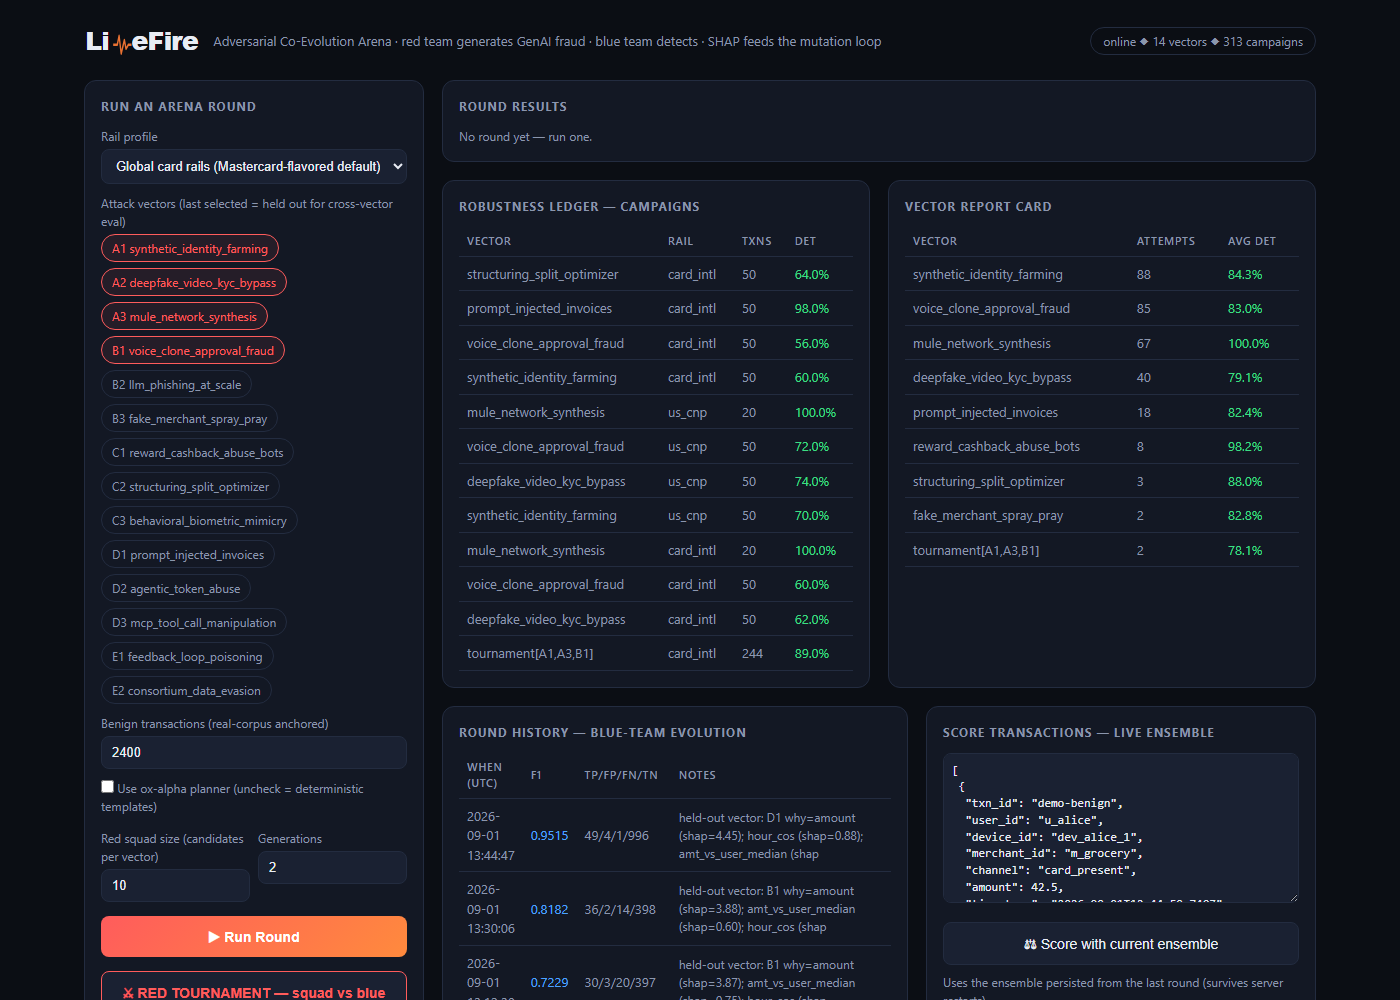
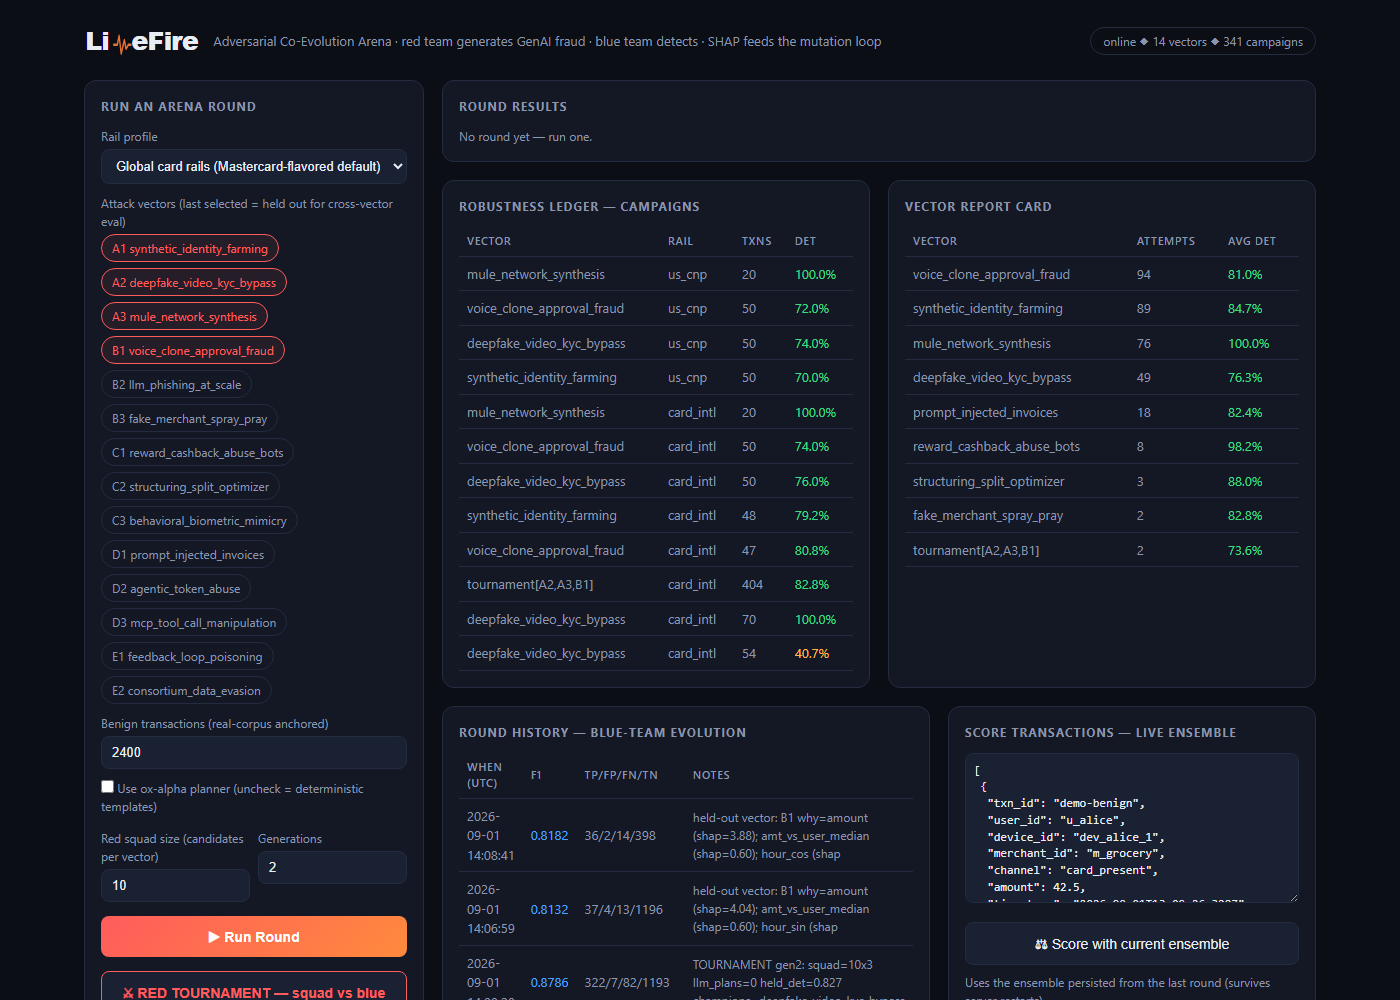
docs: convert README prose to bullets, split quickstart per-step
Every table cell and paragraph that was a dense multi-clause sentence
is now a short bullet list -- the Why-LiveFire table's right column,
all four Architecture role paragraphs (Red/Weaver/Blue/Memory),
Honest Numbers, and the Mastercard-fit section. Content is unchanged,
only broken into scannable points instead of prose blocks.

Quick Start is now six separately-labeled steps, each its own fenced
snippet, instead of one monolithic block -- easier to run/copy one
step at a time and see what each one actually produces.

Screenshots refreshed to reflect this session's terminal fixes (real
function-key buttons, vector selection, the new DETECT panel) rather
than the pre-fix UI.

diff --git a/README.md b/README.md
@@ -25,16 +25,23 @@ Mastercard Innovation Challenge 2026 — AI Defense Lab for Payment Security · 
 
 ## Why LiveFire exists
 
-Static fraud models lose to adaptive attackers. LiveFire closes the loop: an **LLM red team proposes statistical generator parameters** → a **deterministic weaver compiles them into rail-realistic transactions** → a **heterogeneous blue ensemble detects + disagrees → novelty-flags** → **SHAP explains what got caught** → that intelligence **mutates the next attack generation**. Same vectors replayed across four global rail profiles for a per-rail survival comparison — the one axis none of the reference architectures we benchmarked against attempt.
+Static fraud models lose to adaptive attackers. LiveFire closes the loop:
+
+- An **LLM red team** proposes statistical generator parameters
+- A **deterministic weaver** compiles them into rail-realistic transactions
+- A **heterogeneous blue ensemble** detects, disagrees, and novelty-flags
+- **SHAP** explains what got caught
+- That intelligence **mutates the next attack generation**
+- The same vectors replay across **four global rail profiles** for a per-rail survival comparison — the one axis none of the reference architectures we benchmarked against attempt
 
 | Usual failure | What LiveFire does instead |
 |---|---|
-| Metrics trained and tested on its own simulator | **Two numbers, never mixed.** Real credibility = XGB on real ULB holdout (ROC-AUC 0.9852 / AP 0.8750). Arena = synthetic-attack detection vs real-anchored benign. |
-| Single model, single threshold, inflated detection rate | **Heterogeneous blue**: XGB (explainable) + LR + deterministic rules + IF (benign-only). Threshold calibrated on a **held-out benign slice** at a 0.5% FP target. |
-| "98% detection" at an unstated false-positive rate | **Honest operating point.** Every run reports its own *measured* detection + *realized* FP next to the 0.5% target. Ranges across seeds, not cherry-picked points. |
-| LLM writes fraudulent transactions directly | **LLM buys the plan, the Weaver builds the transactions.** The LLM only outputs statistical parameters; a seeded CPU compiler expands them through a 6-check constraint engine per rail. |
-| One geography, one rail | **Four rail profiles** — `card_intl` / `eu_psd2` / `us_cnp` / `upi_in` — same vectors, per-rail survival in one ledger. |
-| A "prompt-injection detector" that's a keyword match | **Category D is a structural check.** `beneficiary_mismatch` compares the payment mandate's stated payee against where settlement actually lands — the same account-reference-binding principle real agentic-payment protocols use. |
+| Metrics trained and tested on its own simulator | <ul><li>**Two numbers, never mixed**</li><li>Real credibility = XGB on real ULB holdout (ROC-AUC 0.9852 / AP 0.8750)</li><li>Arena = synthetic-attack detection vs real-anchored benign</li></ul> |
+| Single model, single threshold, inflated detection rate | <ul><li>**Heterogeneous blue**: XGB (explainable) + LR + deterministic rules + IF (benign-only)</li><li>Threshold calibrated on a **held-out benign slice** at a 0.5% FP target</li></ul> |
+| "98% detection" at an unstated false-positive rate | <ul><li>**Honest operating point** — every run reports its own</li><li>*measured* detection + *realized* FP next to the 0.5% target</li><li>Ranges across seeds, not cherry-picked points</li></ul> |
+| LLM writes fraudulent transactions directly | <ul><li>**LLM buys the plan**, the Weaver builds the transactions</li><li>LLM only outputs statistical parameters</li><li>A seeded CPU compiler expands them through a 6-check constraint engine per rail</li></ul> |
+| One geography, one rail | <ul><li>**Four rail profiles** — `card_intl` / `eu_psd2` / `us_cnp` / `upi_in`</li><li>Same vectors, per-rail survival in one ledger</li></ul> |
+| A "prompt-injection detector" that's a keyword match | <ul><li>**Category D is a structural check**</li><li>`beneficiary_mismatch` compares the mandate's stated payee against where settlement actually lands</li><li>Same account-reference-binding principle real agentic-payment protocols use</li></ul> |
 
 ## Screenshots
 
@@ -49,25 +56,51 @@ Both surfaces talk to the same live API and the same running ensemble — the te
 
 ## Quick Start
 
+**1. Create the environment and install dependencies**
 ```bash
 python -m venv .venv && .venv\Scripts\activate
 pip install -r requirements.txt
-copy config\settings.example.env .env   # fill LLM_API_KEY for live red-team generation; product runs without it
-
-# 1 — real-data anchor (separate from arena, no synthetic)
-python defense\train_real_backbone.py        # → defense/models/artifacts/ulb_backbone.joblib
-
-# 2 — full test suite, zero LLM, deterministic
-python tests\test_e2e.py                    # 6/6
-
-# 3 — the API + dashboard
-uvicorn app.api:app --port 8000             # http://localhost:8000  (or: docker compose up --build)
-
-# 4 — the terminal UI (optional second surface; talks to the same API on :8000)
-cd app\frontend && npm install && npm run dev   # http://localhost:3000
 ```
 
-`POST /api/round` runs one closed loop. `POST /api/tournament` runs population red-teaming. `POST /api/detect` scores your own transactions. `GET /api/ledger/export` downloads the ledger.
+**2. Configure the LLM (optional — the product runs without it, templates fill in)**
+```bash
+copy config\settings.example.env .env
+```
+
+**3. Anchor to real data** — separate from the arena, no synthetic data involved
+```bash
+python defense\train_real_backbone.py
+```
+→ writes `defense/models/artifacts/ulb_backbone.joblib`
+
+**4. Run the test suite** — zero LLM calls, fully deterministic
+```bash
+python tests\test_e2e.py
+```
+→ 6/6 passing
+
+**5. Start the API + dashboard**
+```bash
+uvicorn app.api:app --port 8000
+```
+→ http://localhost:8000 (or: `docker compose up --build`)
+
+**6. Start the terminal UI** — optional second surface, talks to the same API on `:8000`
+```bash
+cd app\frontend
+npm install
+npm run dev
+```
+→ http://localhost:3000
+
+**Key endpoints once the API is running:**
+
+| Endpoint | What it does |
+|---|---|
+| `POST /api/round` | Runs one closed loop (red → weave → blue → explain → ledger) |
+| `POST /api/tournament` | Runs population red-teaming (squad vs. blue, multi-generation) |
+| `POST /api/detect` | Scores your own transactions with the live ensemble |
+| `GET /api/ledger/export` | Downloads the full Robustness Ledger as CSV |
 
 ## Architecture
 
@@ -82,22 +115,41 @@ MUTATE    memory + SHAP context fed into next red prompt → co-evolution
 LEDGER    every campaign + round persisted; multi-rail replay; CSV export
 ```
 
-**Red:** an ox-alpha-lineage model via `attacks/redagent/core/llm_client.py` — tiered routing, failover chains on both `429` (rate limit) and `404` (a retired/renamed model slug — OpenRouter's free/preview tier churns these; the whole point of a chain is to survive exactly that), fence-strip, shared `AsyncClient` scoped correctly per event loop.
+**Red** — an ox-alpha-lineage model via `attacks/redagent/core/llm_client.py`:
+- Tiered routing across a model chain
+- Failover on both `429` (rate limit) and `404` (a retired/renamed model slug — OpenRouter's free/preview tier churns these; the whole point of a chain is to survive exactly that)
+- Fence-strip on raw model output
+- Shared `AsyncClient` scoped correctly per event loop
 
-**Weaver:** `weave_attack_plan()` validates → entity pools → amount ladder + jitter → inter-arrivals → tz-aware timestamps → per-txn constraint engine (C1-C6) × rail profile. Seeded → reproducible.
+**Weaver** — `weave_attack_plan()`:
+- Validates the plan → entity pools → amount ladder + jitter → inter-arrivals → tz-aware timestamps
+- Per-txn constraint engine (C1-C6) × rail profile
+- Seeded end to end → fully reproducible
 
-**Blue:** `defense/features/arena_features.py` → 17 dims: behavioral, velocity (causal 1h), graph (causal fan-out), `memo_injection_score` (text-pattern tier) + `beneficiary_mismatch` (structural tier, Category D). `defense/models/backbone.py` fusion `0.50/0.20/0.20/0.10`; disagreement → `novelty_flag`; `beneficiary_mismatch` also fires as a hard, fully-auditable rule — a mandate/settlement mismatch is fraud by construction, not a probabilistic call.
+**Blue** — `defense/features/arena_features.py` → 17 dims:
+- Behavioral, velocity (causal 1h), graph (causal fan-out)
+- `memo_injection_score` (text-pattern tier) + `beneficiary_mismatch` (structural tier, Category D)
+- `defense/models/backbone.py` fuses XGB/LR/Rules/IF at `0.50/0.20/0.20/0.10`; disagreement → `novelty_flag`
+- `beneficiary_mismatch` also fires as a hard, fully-auditable rule — a mandate/settlement mismatch is fraud by construction, not a probabilistic call
 
-**Memory & Ledger:** `strategy_memory.py` (SQLite, WAL mode, foreign keys enforced) — campaigns + rounds, vector report cards, mutation context. `run_tournament()` fields squad_size × vectors × generations.
+**Memory & Ledger** — `strategy_memory.py`:
+- SQLite, WAL mode, foreign keys enforced
+- Campaigns + rounds, vector report cards, mutation context
+- `run_tournament()` fields squad_size × vectors × generations
 
-**Tech stack:** Python 3.12 · XGBoost + sklearn · SHAP · FastAPI · SQLite (env-configurable path; Postgres is a documented path-to-production step, not a present-tense claim) · React/Vite/Tailwind terminal UI · httpx · Docker
+**Tech stack:**
+- Python 3.12 · XGBoost + sklearn · SHAP · FastAPI
+- SQLite (env-configurable path; Postgres is a documented path-to-production step, not a present-tense claim)
+- React/Vite/Tailwind terminal UI · httpx · Docker
 
 ## Honest Numbers — read before you quote
 
-**Real backbone (no synthetic):** `defense/models/metadata/ulb_backbone_metrics.json` — ULB corpus, committed split `SEED=710`, `n_jobs=1` deterministic:
-**ROC-AUC 0.9852 / AP 0.8750** (n_train 227,845, n_test 56,962)
-
-This number **excludes** ULB's `Time` column on purpose — seconds-since-capture-start is a dataset artifact with no live-scoring equivalent, and including it is a training/serving skew we specifically checked for (see `capture_clock_ablation` in the committed metrics file: with it, 0.9850/0.8752; without it, 0.9852/0.8750 — the headline number was never meaningfully inflated by it, and now that's a committed, reproducible fact instead of an assumption).
+**Real backbone (no synthetic):** `defense/models/metadata/ulb_backbone_metrics.json`
+- ULB corpus, committed split `SEED=710`, `n_jobs=1` deterministic
+- **ROC-AUC 0.9852 / AP 0.8750** (n_train 227,845, n_test 56,962)
+- **Excludes ULB's `Time` column on purpose** — seconds-since-capture-start is a dataset artifact with no live-scoring equivalent
+- Checked for this exact training/serving skew (`capture_clock_ablation` in the committed metrics file): with it, 0.9850/0.8752; without it, 0.9852/0.8750
+- The headline number was never meaningfully inflated by it — now a committed, reproducible fact, not an assumption
 
 **Arena (synthetic attacks vs real-anchored benign, cross-vector holdout):**
 * Canonical 4-vector round (card_intl, A1/B1/C1/D1): **~70% held-out detection @ ~0.53% realized FP** (target 0.5%)
@@ -110,26 +162,56 @@ We also report `pr_auc` and `recall@FPR≤0.001` with **realized** (not nominal)
 
 Named checkpoints, not a vague "we integrate with Mastercard" line:
 
-* **Agent Pay for Machines (AP4M)**, Mastercard's June 2026 agentic-payments framework, runs four sequential functions: *credentialing* a registered agent → *permissioning* what it can spend → *transacting* across card/account rails → *settling*. LiveFire's rail-profile constraint engine occupies the **permissioning** checkpoint (per-channel caps, category rules, SCA step-up); the blue ensemble occupies the risk-scoring step inside **transacting**.
-* The wire format at that checkpoint is **ISO 8583**: an authorization request is MTI `0100` (acquirer → issuer), the response is `0110`. LiveFire's fused score is designed to attach to that `0110` response, not to invent a new message format.
-* Mastercard's own inline scorer, **Decision Intelligence Pro**, runs real-time ML in the authorization path at roughly 50ms, over 500+ data points per transaction, with network-level intelligence across billions of transactions. LiveFire's BlueEnsemble occupies the **same architectural slot** — inline, pre-decision scoring — at hackathon scale (17 features, single process). We are not claiming scale parity; we are claiming the same slot in the pipeline, honestly sized.
-* Mastercard's real fraud/identity/AML stack includes acquisitions directly adjacent to this project's categories: **Ekata** (digital identity verification — Category A), **Ethoca** (post-authorization dispute/chargeback collaboration), and **CipherTrace** (crypto/blockchain AML — relevant since AP4M settles partly on-chain). LiveFire's rail-profile design is the seam where a real deployment would plug into each.
+**Agent Pay for Machines (AP4M)** — Mastercard's June 2026 agentic-payments framework:
+- Four sequential functions: *credentialing* a registered agent → *permissioning* what it can spend → *transacting* across card/account rails → *settling*
+- LiveFire's rail-profile constraint engine occupies the **permissioning** checkpoint (per-channel caps, category rules, SCA step-up)
+- LiveFire's blue ensemble occupies the risk-scoring step inside **transacting**
+
+**The wire format** at that checkpoint is **ISO 8583**:
+- Authorization request = MTI `0100` (acquirer → issuer)
+- Response = MTI `0110`
+- LiveFire's fused score is designed to attach to that `0110` response, not invent a new message format
+
+**Decision Intelligence Pro** — Mastercard's own inline scorer:
+- Real-time ML in the authorization path, ~50ms, 500+ data points per transaction
+- Network-level intelligence across billions of transactions
+- LiveFire's BlueEnsemble occupies the **same architectural slot** — inline, pre-decision scoring — at hackathon scale (17 features, single process)
+- Not claiming scale parity — claiming the same slot in the pipeline, honestly sized
+
+**Adjacent real acquisitions** in Mastercard's fraud/identity/AML stack:
+- **Ekata** — digital identity verification (maps to Category A)
+- **Ethoca** — post-authorization dispute/chargeback collaboration
+- **CipherTrace** — crypto/blockchain AML (relevant since AP4M settles partly on-chain)
+- LiveFire's rail-profile design is the seam where a real deployment would plug into each
 
 ## 14 vectors, 4 rails — honestly scoped
 
-`attacks/taxonomy.json` v1.0 — 14 vectors across 5 categories: identity (A1-A3), social (B1-B3), evasion (C1-C3), **agentic (D1-D3)**, poisoning (E1-E2). Shipped detection covers all 14, including a real structural signal for D1-D3 (see above) — not shipped as a text-pattern stand-in for a semantic tier.
+`attacks/taxonomy.json` v1.0:
+- 14 vectors across 5 categories: identity (A1-A3), social (B1-B3), evasion (C1-C3), **agentic (D1-D3)**, poisoning (E1-E2)
+- Shipped detection covers all 14, including a real structural signal for D1-D3 — not a text-pattern stand-in for a semantic tier
+- Rails: `card_intl` (global), `eu_psd2` (PSD2 SCA), `us_cnp` (no SCA), `upi_in` (NPCI-calibrated)
 
-Rails: `card_intl` (global), `eu_psd2` (PSD2 SCA), `us_cnp` (no SCA), `upi_in` (NPCI-calibrated).
-
-Actively researched but not yet wired into generation/detection (tracked, not padded into the taxonomy count): merchant-mandate forgery (a merchant fabricates a signed mandate the user never approved — distinct from D1's poisoned-invoice mechanism), and indirect prompt injection via product-listing content rather than a tool call. Both are grounded in current (2026) AP2 red-teaming literature, not speculative.
+Tracked research, not yet wired into generation/detection (not padded into the taxonomy count):
+- Merchant-mandate forgery — a merchant fabricates a signed mandate the user never approved, distinct from D1's poisoned-invoice mechanism
+- Indirect prompt injection via product-listing content rather than a tool call
+- Both grounded in current (2026) AP2 red-teaming literature, not speculative
 
 ## Evidence & Reproducibility
 
-**Evidence committed:** `defense/models/metadata/ulb_backbone_metrics.json` (now with the capture-clock ablation), `evidence/breakthrough_report_seed71*.json`, `evidence/live_tournament_3gen_seed909.json`, `CHANGELOG.md`, `docs/AUDIT.md`
+**Evidence committed:**
+- `defense/models/metadata/ulb_backbone_metrics.json` (now with the capture-clock ablation)
+- `evidence/breakthrough_report_seed71*.json`, `evidence/live_tournament_3gen_seed909.json`
+- `CHANGELOG.md`, `docs/AUDIT.md`
 
-**Reproducibility:** every weave seeded, every split `SEED=710`, XGB `n_jobs=1` pinned, `tests/calib_sweep.py` reproduces the calibration table, `tests/test_e2e.py` is 6/6 green with zero LLM calls.
+**Reproducibility:**
+- Every weave seeded, every split `SEED=710`, XGB `n_jobs=1` pinned
+- `tests/calib_sweep.py` reproduces the calibration table
+- `tests/test_e2e.py` is 6/6 green with zero LLM calls
 
-**Path to production:** `Dockerfile` + `docker-compose.yml`, `BlueEnsemble.save/load`, `/api/health` p50/p99, `LEDGER_DB_URL` as the seam a managed Postgres (e.g. Neon) would attach to for durable multi-instance ledger storage — not yet wired, listed here as a next step rather than claimed as shipped. Real gaps documented honestly.
+**Path to production:**
+- `Dockerfile` + `docker-compose.yml`, `BlueEnsemble.save/load`, `/api/health` p50/p99
+- `LEDGER_DB_URL` as the seam a managed Postgres (e.g. Neon) would attach to for durable multi-instance ledger storage
+- Not yet wired — listed here as a next step, not claimed as shipped. Real gaps documented honestly.
 
 Verify it yourself:
 ```bash
